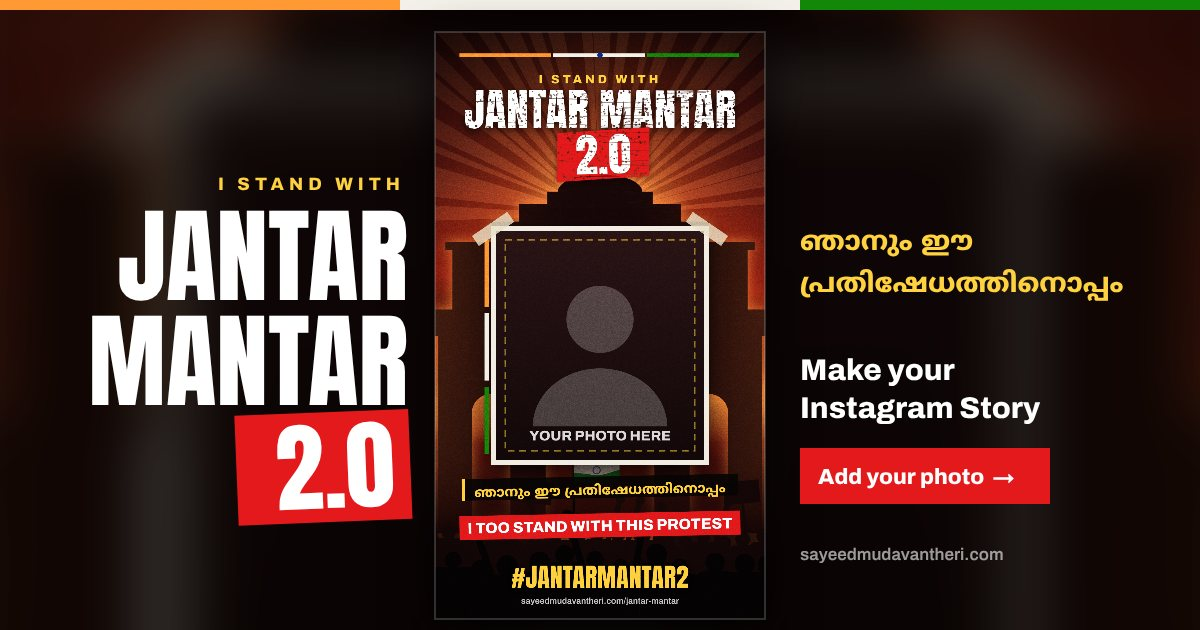
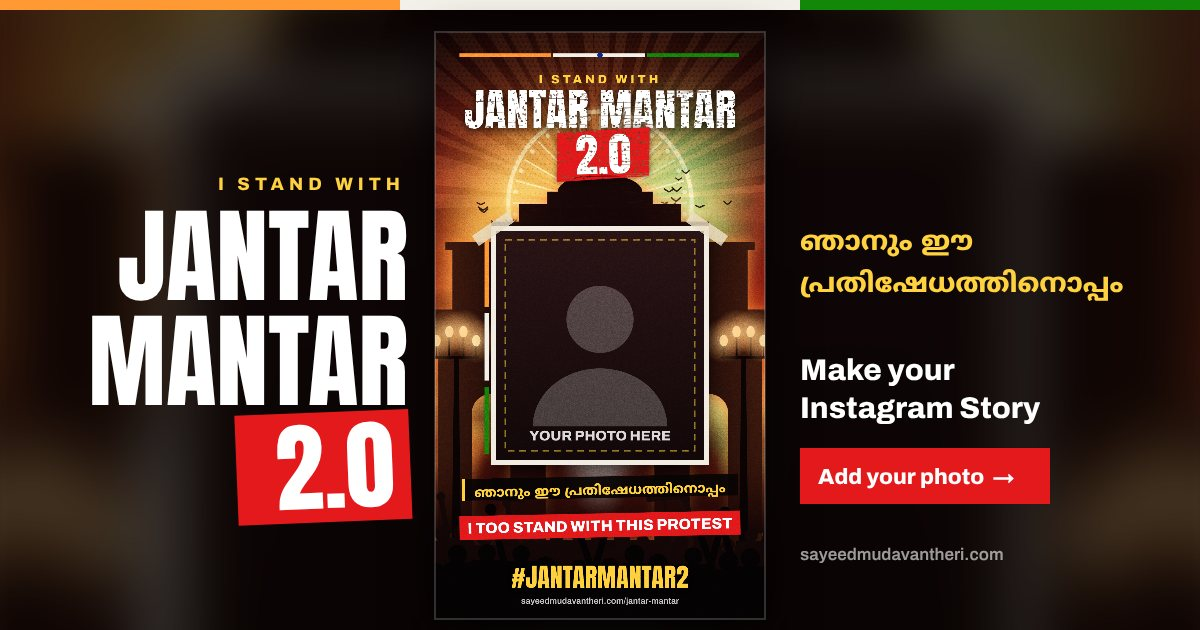
Live supporter count, share first

diff --git a/jantar-mantar/index.html b/jantar-mantar/index.html
@@ -13,15 +13,15 @@
 <meta property="og:title" content="Jantar Mantar 2.0 · Make your support story">
 <meta property="og:description" content="ഞാനും ഈ പ്രതിഷേധത്തിനൊപ്പം. Add your photo and get a ready-to-share Instagram Story.">
 <meta property="og:url" content="https://sayeedmudavantheri.com/jantar-mantar/">
-<meta property="og:image" content="https://sayeedmudavantheri.com/jantar-mantar/og.jpg?v=2">
-<meta property="og:image:secure_url" content="https://sayeedmudavantheri.com/jantar-mantar/og.jpg?v=2">
+<meta property="og:image" content="https://sayeedmudavantheri.com/jantar-mantar/og.jpg?v=3">
+<meta property="og:image:secure_url" content="https://sayeedmudavantheri.com/jantar-mantar/og.jpg?v=3">
 <meta property="og:image:type" content="image/jpeg">
 <meta property="og:image:width" content="1200"><meta property="og:image:height" content="630">
 <meta property="og:image:alt" content="Jantar Mantar 2.0 Instagram Story template with India Gate at sunset and a photo frame">
 <meta name="twitter:card" content="summary_large_image">
 <meta name="twitter:title" content="Jantar Mantar 2.0 · Make your support story">
 <meta name="twitter:description" content="ഞാനും ഈ പ്രതിഷേധത്തിനൊപ്പം. Add your photo and get a ready-to-share Instagram Story.">
-<meta name="twitter:image" content="https://sayeedmudavantheri.com/jantar-mantar/og.jpg?v=2">
+<meta name="twitter:image" content="https://sayeedmudavantheri.com/jantar-mantar/og.jpg?v=3">
 <meta name="twitter:image:alt" content="Jantar Mantar 2.0 Instagram Story template">
 <link rel="icon" href="/favicon.ico" sizes="any">
 <link rel="preload" href="fonts/anton.woff2" as="font" type="font/woff2" crossorigin>
@@ -115,6 +115,19 @@ h1 b{display:inline-block;font-weight:400;background:var(--red);color:#fff;paddi
 .actions{display:grid;grid-template-columns:1fr 1fr;gap:10px}
 .actions .btn{width:100%}
 .actions .full{grid-column:1/-1}
+.actions .btn[hidden]{display:none}
+.actions.solo #dl{grid-column:1/-1}
+.live{margin-top:26px;display:inline-flex;flex-direction:column;gap:8px;padding:16px 20px 14px;border-radius:16px;background:linear-gradient(180deg,rgba(227,25,28,.14),rgba(227,25,28,.04));border:1px solid rgba(227,25,28,.35)}
+.live-top{display:flex;align-items:center;gap:8px;font:800 12px/1 Archivo,sans-serif;letter-spacing:.18em;color:#ffb3b3}
+.live .dot{width:9px;height:9px;border-radius:50%;background:#ff3b3b;box-shadow:0 0 0 0 rgba(255,59,59,.7);animation:pulse 1.6s infinite}
+@keyframes pulse{0%{box-shadow:0 0 0 0 rgba(255,59,59,.7)}70%{box-shadow:0 0 0 10px rgba(255,59,59,0)}100%{box-shadow:0 0 0 0 rgba(255,59,59,0)}}
+.odo{display:flex;align-items:flex-end;gap:4px;font:400 clamp(40px,6vw,58px)/1 Anton,Impact,sans-serif;color:#fff}
+.odo .d{position:relative;width:.62em;height:1.12em;overflow:hidden;border-radius:6px;background:linear-gradient(180deg,#2a1214 0 49%,#1d0c0d 51% 100%);box-shadow:inset 0 0 0 1px rgba(255,255,255,.08),0 6px 14px -8px #000}
+.odo .d::after{content:"";position:absolute;left:0;right:0;top:50%;height:1px;background:rgba(0,0,0,.6)}
+.odo .col{position:absolute;left:0;right:0;top:0;transition:transform .9s cubic-bezier(.2,.8,.2,1)}
+.odo .col span{display:block;height:1.12em;line-height:1.12em;text-align:center}
+.odo .sep{width:.22em;text-align:center;color:var(--yellow)}
+.live-cap{color:var(--mute);font-size:14px}
 .invite{margin-top:18px;padding-top:16px;border-top:1px solid var(--line)}
 .inv-h{margin:0 0 10px;font-weight:600;font-size:14px}
 .inv-row{display:flex;flex-wrap:wrap;gap:8px}
@@ -180,6 +193,11 @@ footer .wrap{display:flex;flex-wrap:wrap;justify-content:space-between;gap:10px}
         <span><svg viewBox="0 0 24 24" aria-hidden="true"><path d="M5 12l5 5L20 7"/></svg>No sign-up</span>
         <span><svg viewBox="0 0 24 24" aria-hidden="true"><rect x="7" y="2" width="10" height="20" rx="2"/></svg>1080 × 1920 story</span>
       </div>
+      <div class="live" id="live" hidden>
+        <div class="live-top"><span class="dot" aria-hidden="true"></span>LIVE SUPPORT COUNT</div>
+        <div class="odo" id="odo" role="status" aria-live="polite" aria-label="Supporters so far"></div>
+        <div class="live-cap">people have made their support story</div>
+      </div>
     </div>
     <div class="sample" aria-hidden="true"><canvas id="sample" width="540" height="960"></canvas></div>
   </section>
@@ -231,11 +249,12 @@ footer .wrap{display:flex;flex-wrap:wrap;justify-content:space-between;gap:10px}
         <div class="step">
           <h3><em>3</em>Download and share</h3>
           <div class="actions">
+            <button class="btn yellow" type="button" id="share" disabled hidden><svg viewBox="0 0 24 24" aria-hidden="true"><circle cx="18" cy="5" r="2.5"/><circle cx="6" cy="12" r="2.5"/><circle cx="18" cy="19" r="2.5"/><path d="M8.2 10.8l7.6-4.4M8.2 13.2l7.6 4.4"/></svg>Share story</button>
             <button class="btn red" type="button" id="dl" disabled><svg viewBox="0 0 24 24" aria-hidden="true"><path d="M12 4v12M7 11l5 5 5-5"/><path d="M4 20h16"/></svg>Download PNG</button>
-            <button class="btn yellow" type="button" id="share" disabled hidden><svg viewBox="0 0 24 24" aria-hidden="true"><circle cx="18" cy="5" r="2.5"/><circle cx="6" cy="12" r="2.5"/><circle cx="18" cy="19" r="2.5"/><path d="M8.2 10.8l7.6-4.4M8.2 13.2l7.6 4.4"/></svg>Share</button>
             <button class="btn ghost full" type="button" id="again" hidden>Start again with another photo</button>
           </div>
           <p class="status" id="status" role="status" aria-live="polite"></p>
+          <p class="small" id="nextNo" hidden></p>
           <p class="small">On Instagram: open Stories, pick the saved image from your gallery, and post.</p>
           <div class="invite" aria-labelledby="inv">
             <p id="inv" class="inv-h">Invite friends to make theirs</p>
@@ -269,7 +288,7 @@ footer .wrap{display:flex;flex-wrap:wrap;justify-content:space-between;gap:10px}
   <h2 id="pv">Your privacy</h2>
   <div class="cards">
     <div><b>Your photo stays with you</b><p>The story is made inside your browser. Your photo is never uploaded or stored on any server.</p></div>
-    <div><b>No account, no tracking</b><p>No sign-up and no personal data collected. Your name and message are only drawn onto your own image.</p></div>
+    <div><b>No account, no tracking</b><p>No sign-up and no personal data collected. Your name and message are only drawn onto your own image. The live count only adds +1 (once per device) when you save or share a story; no photo, name or message is sent.</p></div>
     <div><b>You decide</b><p>Nothing is posted for you. You choose whether to download or share your story.</p></div>
   </div>
   <p class="disclaimer"><b>Independent initiative.</b> This page is a voluntary, independent digital initiative by Muhammed Sayeed Mudavantheri for civic expression. It is not an official page of the protest organisers, any political party or any government body. Taking part is entirely voluntary.</p>
@@ -406,17 +425,53 @@ footer .wrap{display:flex;flex-wrap:wrap;justify-content:space-between;gap:10px}
     const a = document.createElement('a'); a.href = URL.createObjectURL(blob); a.download = fname(); document.body.appendChild(a); a.click(); a.remove();
     setTimeout(() => URL.revokeObjectURL(a.href), 4000);
     status('Saved. Now post it to your Instagram Story.');
+    countSupport();
   });
   /* device share (phones and some desktops) */
   const testFile = new File([new Blob([''], { type: 'image/png' })], 'x.png', { type: 'image/png' });
-  if (navigator.canShare && navigator.canShare({ files: [testFile] })) $('share').hidden = false;
+  if (navigator.canShare && navigator.canShare({ files: [testFile] })) $('share').hidden = false; else document.querySelector('.actions').classList.add('solo');
   $('share').addEventListener('click', async () => {
     if (!S.img) return; status('Opening share options…');
     const blob = await makeBlob(); const file = new File([blob], fname(), { type: 'image/png' });
-    try { await navigator.share({ files: [file], title: 'Jantar Mantar 2.0', text: SHARE_TEXT + ' ' + PAGE }); status('Shared.'); }
+    try { await navigator.share({ files: [file], title: 'Jantar Mantar 2.0', text: SHARE_TEXT + ' ' + PAGE }); status('Shared.'); countSupport(); }
     catch (e) { status(e && e.name === 'AbortError' ? '' : 'Sharing is not available here. Use Download instead.'); }
   });
   $('again').addEventListener('click', () => { $('file').value = ''; $('file').click(); });
+
+  /* ---------- live supporter count (anonymous counter, +1 once per device) ---------- */
+  const CNT = 'https://abacus.jasoncameron.dev', NS = 'sayeedmudavantheri-com', KEY = 'jm2-supporters';
+  const odo = $('odo'); let shown = -1;
+  function setCount(n) {
+    if (typeof n !== 'number' || n < 0 || n === shown) return; shown = n; $('live').hidden = false;
+    const str = n.toLocaleString('en-IN'), shape = str.replace(/\d/g, '0');
+    if (odo.dataset.len !== shape) {               /* rebuild only when the shape changes (more digits / commas) */
+      odo.innerHTML = ''; odo.dataset.len = shape;
+      for (const ch of str) { if (/\d/.test(ch)) { const d = document.createElement('span'); d.className = 'd'; const col = document.createElement('span'); col.className = 'col';
+          for (let i = 0; i < 10; i++) { const sp = document.createElement('span'); sp.textContent = i; col.appendChild(sp); } d.appendChild(col); odo.appendChild(d); }
+        else { const sp = document.createElement('span'); sp.className = 'sep'; sp.textContent = ch; odo.appendChild(sp); } }
+    }
+    const cols = odo.querySelectorAll('.col'); let k = 0;
+    requestAnimationFrame(() => { for (const ch of str) if (/\d/.test(ch)) { cols[k++].style.transform = `translateY(${-ch * 10}%)`; } });
+    odo.setAttribute('aria-label', `${str} supporters so far`);
+    const nx = $('nextNo'); if (!counted()) { nx.hidden = false; nx.textContent = `Your story will make you supporter #${(n + 1).toLocaleString('en-IN')}.`; }
+  }
+  const counted = () => { try { return localStorage.getItem('jm2-counted') === '1'; } catch (e) { return false; } };
+  async function countSupport() {
+    if (counted()) return;
+    try { localStorage.setItem('jm2-counted', '1'); } catch (e) {}
+    try { const r = await fetch(`${CNT}/hit/${NS}/${KEY}`); const j = await r.json(); setCount(j.value);
+      $('nextNo').hidden = false; $('nextNo').textContent = `Thank you! You are supporter #${j.value.toLocaleString('en-IN')}.`; } catch (e) {}
+  }
+  async function readCount() { try { const r = await fetch(`${CNT}/get/${NS}/${KEY}`, { cache: 'no-store' }); if (r.ok) setCount((await r.json()).value); } catch (e) {} }
+  readCount();
+  let poll = 0;
+  if ('EventSource' in window) {
+    try { const es = new EventSource(`${CNT}/stream/${NS}/${KEY}`);
+      es.onmessage = e => { try { setCount(JSON.parse(e.data).value); } catch (_) {} };
+      es.onerror = () => { es.close(); if (!poll) poll = setInterval(readCount, 20000); };
+    } catch (e) { poll = setInterval(readCount, 20000); }
+  } else poll = setInterval(readCount, 20000);
+  document.addEventListener('visibilitychange', () => { if (!document.hidden) readCount(); });
 
   /* ---------- share the page link (preview shows the story thumbnail) ---------- */
   const enc = encodeURIComponent;

diff --git a/jantar-mantar/story.js b/jantar-mantar/story.js
@@ -35,6 +35,77 @@
     return p;
   }
 
+
+  /* ---------- creative layers: clouds, chakra sun, tricolour smoke, lamps, birds, halftone ---------- */
+  function valueNoise(seed) {
+    const r = rng(seed), N = 256, P = new Float32Array(N * N); for (let i = 0; i < P.length; i++) P[i] = r();
+    const at = (i, j) => P[((j & 255) * N) + (i & 255)], sm = t => t * t * (3 - 2 * t);
+    return (x, y) => { const i = Math.floor(x), j = Math.floor(y), fx = sm(x - i), fy = sm(y - j);
+      const a = at(i, j), b = at(i + 1, j), c = at(i, j + 1), d = at(i + 1, j + 1); return a + (b - a) * fx + (c - a) * fy + (a - b - c + d) * fx * fy; };
+  }
+  function clouds(x, SX, SY) {
+    const w = 270, h = 480, c = layer(w, h), cx = c.getContext('2d'), id = cx.createImageData(w, h), d = id.data, n = valueNoise(21);
+    for (let py = 0; py < h; py++) for (let px = 0; px < w; px++) {
+      const X = px / w * 5, Y = py / h * 22;
+      let f = 0, amp = .55, fr = 1; for (let o = 0; o < 5; o++) { f += amp * n(X * fr * 1.0 + o * 7.1, Y * fr * .5 + o * 3.3); amp *= .5; fr *= 2.05; }
+      const yy = py / h, band = Math.max(0, 1 - Math.abs(yy - .3) / .26);           /* clouds live in the upper-middle sky */
+      const a = Math.max(0, Math.min(1, (f - .48) / .22)) * band;
+      const dx = (px / w * W - SX) / W, dy = (py / h * H - SY) / H, near = Math.max(0, 1 - Math.hypot(dx, dy * 1.4) * 2.2);
+      const lit = Math.min(1, .25 + near * 1.1 + (f - .5));
+      const i = (py * w + px) * 4;
+      d[i] = 60 + 195 * lit; d[i + 1] = 14 + 110 * lit * lit; d[i + 2] = 24 + 60 * lit * lit * lit; d[i + 3] = a * 230;
+    }
+    cx.putImageData(id, 0, 0);
+    x.save(); x.imageSmoothingQuality = 'high'; x.globalAlpha = .9; x.drawImage(c, 0, 0, W, H); x.restore();
+  }
+  function chakra(x, cx, cy, R) {
+    x.save(); x.globalCompositeOperation = 'screen'; x.strokeStyle = 'rgba(255,236,190,.55)'; x.fillStyle = 'rgba(255,236,190,.55)';
+    x.shadowColor = 'rgba(255,200,120,.9)'; x.shadowBlur = 26; x.lineWidth = R * .045;
+    x.beginPath(); x.arc(cx, cy, R, 0, Math.PI * 2); x.stroke();
+    x.lineWidth = R * .018;
+    for (let i = 0; i < 24; i++) { const a = i / 24 * Math.PI * 2; x.beginPath(); x.moveTo(cx + Math.cos(a) * R * .16, cy + Math.sin(a) * R * .16); x.lineTo(cx + Math.cos(a) * R * .95, cy + Math.sin(a) * R * .95); x.stroke();
+      const b = a + Math.PI / 24; x.beginPath(); x.arc(cx + Math.cos(b) * R * .93, cy + Math.sin(b) * R * .93, R * .025, 0, Math.PI * 2); x.fill(); }
+    x.beginPath(); x.arc(cx, cy, R * .14, 0, Math.PI * 2); x.fill();
+    x.restore();
+  }
+  function smoke(x, r, x0, y0, dir, rgb, len, spread) {
+    x.save(); x.globalCompositeOperation = 'screen';
+    const ph = r() * 6;
+    for (let k = 0; k < 140; k++) { const t = k / 140, jit = (r() - .5) * 60 * (1 + t * 2);
+      const px = x0 + dir * (t * spread + Math.sin(t * 5 + ph) * 70 * t) + jit, py = y0 - t * len + (r() - .5) * 40, rad = 50 + t * 230 + r() * 60;
+      const a = (.07 + .06 * (1 - t)) * (t < .08 ? t / .08 : 1);
+      const g = x.createRadialGradient(px, py, 0, px, py, rad); g.addColorStop(0, `rgba(${rgb},${a})`); g.addColorStop(1, `rgba(${rgb},0)`);
+      x.fillStyle = g; x.beginPath(); x.arc(px, py, rad, 0, Math.PI * 2); x.fill(); }
+    /* bright flare at the source */
+    const fg = x.createRadialGradient(x0, y0, 0, x0, y0, 90); fg.addColorStop(0, `rgba(255,255,230,.9)`); fg.addColorStop(.3, `rgba(${rgb},.6)`); fg.addColorStop(1, `rgba(${rgb},0)`);
+    x.fillStyle = fg; x.beginPath(); x.arc(x0, y0, 90, 0, Math.PI * 2); x.fill();
+    x.restore();
+  }
+  function lamp(x, bx, by, h, s) {
+    x.save(); x.fillStyle = '#0b0405';
+    x.fillRect(bx - 34 * s, by - 60 * s, 68 * s, 60 * s); x.fillRect(bx - 24 * s, by - 90 * s, 48 * s, 30 * s);
+    x.beginPath(); x.moveTo(bx - 14 * s, by - 90 * s); x.lineTo(bx - 7 * s, by - h); x.lineTo(bx + 7 * s, by - h); x.lineTo(bx + 14 * s, by - 90 * s); x.fill();
+    x.fillRect(bx - 70 * s, by - h, 140 * s, 8 * s);
+    [-62, -22, 22, 62].forEach((dx, i) => { const lx = bx + dx * s, ly = by - h - (i % 3 === 0 ? 30 : 58) * s;
+      x.fillRect(lx - 3 * s, ly, 6 * s, (by - h) - ly);
+      const g = x.createRadialGradient(lx, ly - 18 * s, 0, lx, ly - 18 * s, 70 * s); g.addColorStop(0, 'rgba(255,220,150,.75)'); g.addColorStop(1, 'rgba(255,160,80,0)');
+      x.fillStyle = g; x.beginPath(); x.arc(lx, ly - 18 * s, 70 * s, 0, Math.PI * 2); x.fill();
+      x.fillStyle = '#ffe2a8'; x.beginPath(); x.ellipse(lx, ly - 18 * s, 13 * s, 18 * s, 0, 0, Math.PI * 2); x.fill(); x.fillStyle = '#0b0405'; });
+    x.restore();
+  }
+  function birds(x, r, cx, cy, n, spread) {
+    x.save(); x.strokeStyle = 'rgba(20,6,8,.85)'; x.lineCap = 'round';
+    for (let i = 0; i < n; i++) { const bx = cx + (r() - .5) * spread, by = cy + (r() - .5) * spread * .45, s = 7 + r() * 9, f = .4 + r() * .5;
+      x.lineWidth = 2 + s * .18; x.beginPath(); x.moveTo(bx - s, by - s * f); x.quadraticCurveTo(bx - s * .4, by - s * .2, bx, by); x.quadraticCurveTo(bx + s * .4, by - s * .2, bx + s, by - s * f); x.stroke(); }
+    x.restore();
+  }
+  function halftone(x) {
+    x.save(); x.globalCompositeOperation = 'multiply';
+    for (let y = 0; y < 760; y += 16) { const k = 1 - y / 760; for (let xx = (y / 16 % 2) * 8; xx < W; xx += 16) {
+      x.fillStyle = `rgba(30,0,0,${.35 * k})`; x.beginPath(); x.arc(xx, y, 1 + 3.2 * k, 0, Math.PI * 2); x.fill(); } }
+    x.restore();
+  }
+
   /* ---------- background: sunset sky, sun, rays, India Gate, haze, crowd ---------- */
   function buildBackground() {
     const c = layer(), x = c.getContext('2d'), r = rng(7);
@@ -42,18 +113,25 @@
     sky.addColorStop(0, '#120406'); sky.addColorStop(.22, '#3b0a0e'); sky.addColorStop(.42, '#8e1a12');
     sky.addColorStop(.55, '#e2531a'); sky.addColorStop(.63, '#ff9a3c'); sky.addColorStop(.70, '#6d1a10'); sky.addColorStop(1, '#0b0405');
     x.fillStyle = sky; x.fillRect(0, 0, W, H);
-    const SX = 540, SY = 600;
+    const SX = 540, SY = 560;
+    clouds(x, SX, SY);
     /* sun glow + disc */
     let g = x.createRadialGradient(SX, SY, 0, SX, SY, 900);
     g.addColorStop(0, 'rgba(255,214,120,.95)'); g.addColorStop(.12, 'rgba(255,170,70,.75)'); g.addColorStop(.35, 'rgba(240,90,30,.35)'); g.addColorStop(1, 'rgba(120,20,10,0)');
     x.fillStyle = g; x.fillRect(0, 0, W, H);
-    x.fillStyle = '#ffd690'; x.globalAlpha = .9; x.beginPath(); x.arc(SX, SY, 120, 0, Math.PI * 2); x.fill(); x.globalAlpha = 1;
+    x.fillStyle = '#ffd690'; x.globalAlpha = .9; x.beginPath(); x.arc(SX, SY, 110, 0, Math.PI * 2); x.fill(); x.globalAlpha = 1;
+    chakra(x, SX, SY, 300);
     /* light rays */
     x.save(); x.globalCompositeOperation = 'lighter';
     for (let i = 0; i < 26; i++) { const a = -Math.PI + (i / 26) * Math.PI + r() * .06, wd = .018 + r() * .03, len = 1500;
       const rg = x.createRadialGradient(SX, SY, 80, SX, SY, len); rg.addColorStop(0, 'rgba(255,200,120,.16)'); rg.addColorStop(1, 'rgba(255,120,60,0)');
       x.fillStyle = rg; x.beginPath(); x.moveTo(SX, SY); x.arc(SX, SY, len, a - wd, a + wd); x.closePath(); x.fill(); }
     x.restore();
+    /* tricolour smoke flares rising behind the gate */
+    smoke(x, r, 70, 1420, 1, '255,140,40', 1050, 300);
+    smoke(x, r, 1010, 1420, -1, '40,170,70', 1050, 300);
+    smoke(x, r, 540, 1500, 0, '255,245,235', 700, 0);
+    birds(x, r, 850, 520, 9, 260); birds(x, r, 210, 600, 6, 200);
     /* drifting smoke bands */
     for (let i = 0; i < 18; i++) { const cx = r() * W, cy = 900 + r() * 700, rw = 220 + r() * 380, rh = 50 + r() * 90;
       const sg = x.createRadialGradient(cx, cy, 0, cx, cy, rw); sg.addColorStop(0, `rgba(${40 + r() * 40|0},10,8,${.25 + r() * .25})`); sg.addColorStop(1, 'rgba(20,5,5,0)');
@@ -73,10 +151,12 @@
     /* ground haze */
     g = x.createLinearGradient(0, 1380, 0, 1640); g.addColorStop(0, 'rgba(60,12,8,0)'); g.addColorStop(1, 'rgba(25,6,6,.95)');
     x.fillStyle = g; x.fillRect(0, 1380, W, 260);
+    lamp(x, 70, 1760, 700, 1.05); lamp(x, 1010, 1760, 700, 1.05);
     drawCrowd(x, r);
     /* vignette */
     g = x.createRadialGradient(W / 2, H * .45, H * .25, W / 2, H * .5, H * .78); g.addColorStop(0, 'rgba(0,0,0,0)'); g.addColorStop(1, 'rgba(0,0,0,.72)');
     x.fillStyle = g; x.fillRect(0, 0, W, H);
+    halftone(x);
     return c;
   }
 
